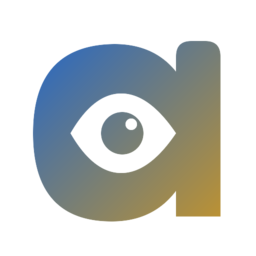
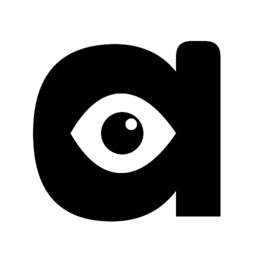
Apply monochrome Argus branding (#17)
Copilot-Session: 3eb59e78-c68b-420f-aedb-8b428ed35540

diff --git a/src/styles/global.css b/src/styles/global.css
@@ -234,7 +234,7 @@ input {
 
 .site-header__inner {
   width: min(1160px, calc(100% - 40px));
-  min-height: 54px;
+  min-height: 64px;
   margin: 0 auto;
   display: flex;
   align-items: center;
@@ -264,7 +264,7 @@ input {
   display: block;
   flex: none;
   overflow: visible;
-  color: var(--blue-dark);
+  color: var(--ink);
 }
 
 .argus-logo__svg {
@@ -275,8 +275,8 @@ input {
 }
 
 .argus-logo--header {
-  width: 92px;
-  height: 32px;
+  width: 118px;
+  height: 41px;
 }
 
 .argus-logo--footer {
@@ -291,16 +291,14 @@ input {
 
 @media (max-width: 680px) {
   .argus-logo--header {
-    width: 76px;
-    height: 27px;
+    width: 82px;
+    height: 29px;
   }
 }
 
 @media (forced-colors: active) {
-  .argus-logo,
-  .argus-logo stop {
+  .argus-logo {
     color: CanvasText;
-    stop-color: CanvasText;
   }
 }
 

diff --git a/scripts/generate_rounded_logo_assets.py b/scripts/generate_rounded_logo_assets.py
@@ -35,10 +35,7 @@ def extract_svg_sources(archive: Path, output_dir: Path) -> dict[str, Path]:
         for key, relative in mapping.items():
             source = bundle.read(f"{ARCHIVE_ROOT}/{relative}").decode("utf-8")
             target = output_dir / f"argus-{key}.svg"
-            if key == "mark-rounded-small":
-                target.write_text(source.replace("#000000", "#073e8c"), encoding="utf-8")
-            else:
-                recolor_svg(source, target)
+            recolor_svg(source, target)
             result[key] = target
     return result
 
@@ -54,26 +51,11 @@ def _recolor(image: Image.Image, color: tuple[int, int, int]) -> Image.Image:
     return result
 
 
-def _gradient_mark(image: Image.Image) -> Image.Image:
-    width, height = image.size
-    alpha = image.getchannel("A")
-    start = (7, 95, 228)
-    end = (217, 154, 22)
-    gradient = Image.new("RGBA", image.size)
-    pixels = gradient.load()
-    for y in range(height):
-        for x in range(width):
-            amount = (x + y) / max(1, width + height - 2)
-            color = tuple(round(a + (b - a) * amount) for a, b in zip(start, end))
-            pixels[x, y] = (*color, alpha.getpixel((x, y)))
-    return gradient
-
-
 def _og_image(base: Image.Image, mark: Image.Image) -> Image.Image:
     canvas = base.convert("RGB").copy()
     draw = ImageDraw.Draw(canvas)
     draw.rectangle((78, 62, 142, 126), fill="#ffffff")
-    rounded_mark = _gradient_mark(mark.resize((52, 52), Image.Resampling.LANCZOS))
+    rounded_mark = _recolor(mark.resize((52, 52), Image.Resampling.LANCZOS), (0, 0, 0))
     canvas.paste(rounded_mark, (84, 68), rounded_mark)
     return canvas
 
@@ -84,13 +66,13 @@ def generate_assets(archive: Path, sidecar: Path, output_dir: Path) -> None:
     extract_svg_sources(archive, output_dir)
     with zipfile.ZipFile(archive) as bundle:
         mark_256 = _read_png(bundle, "png/marks/argus-mark-256.png")
-        gradient = _gradient_mark(mark_256)
-        gradient.save(output_dir / "argus-mark-gold.png", optimize=True)
+        monochrome = _recolor(mark_256, (0, 0, 0))
+        monochrome.save(output_dir / "argus-mark-gold.png", optimize=True)
 
         favicon_layers = []
         for size in (16, 32, 48):
             layer = _read_png(bundle, f"png/marks/argus-mark-{size}.png")
-            favicon_layers.append(_recolor(layer, (7, 62, 140)))
+            favicon_layers.append(_recolor(layer, (0, 0, 0)))
         favicon_path = output_dir / "argus-mark-rounded-favicon.ico"
         favicon_layers[-1].save(
             favicon_path,
